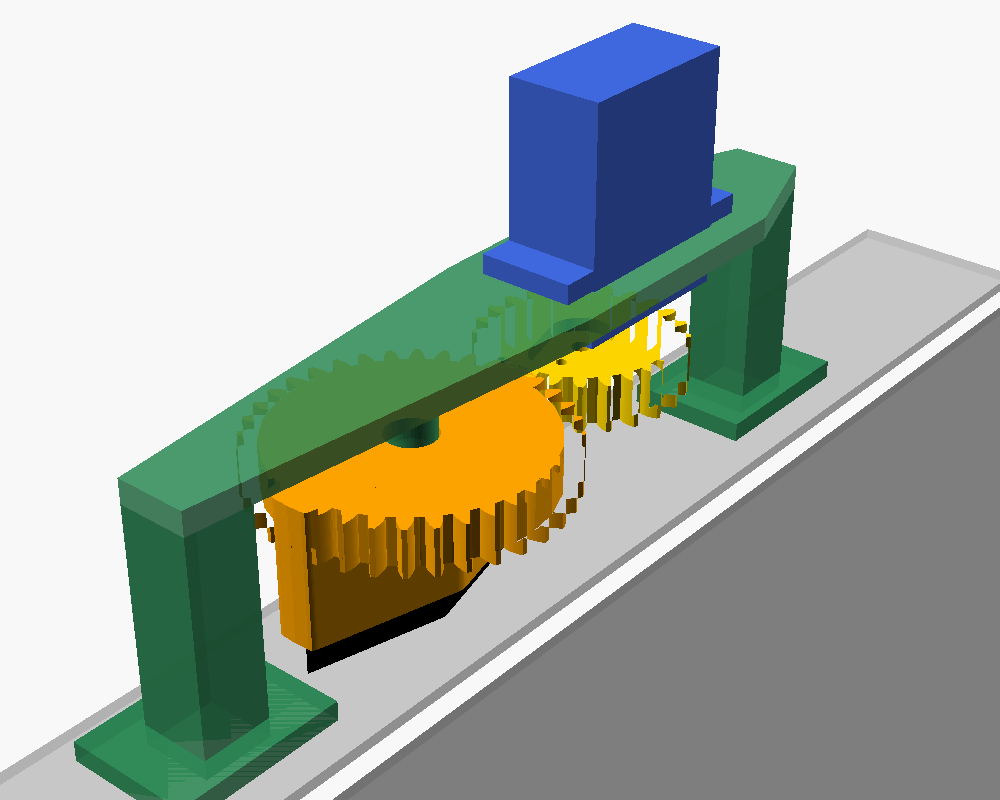
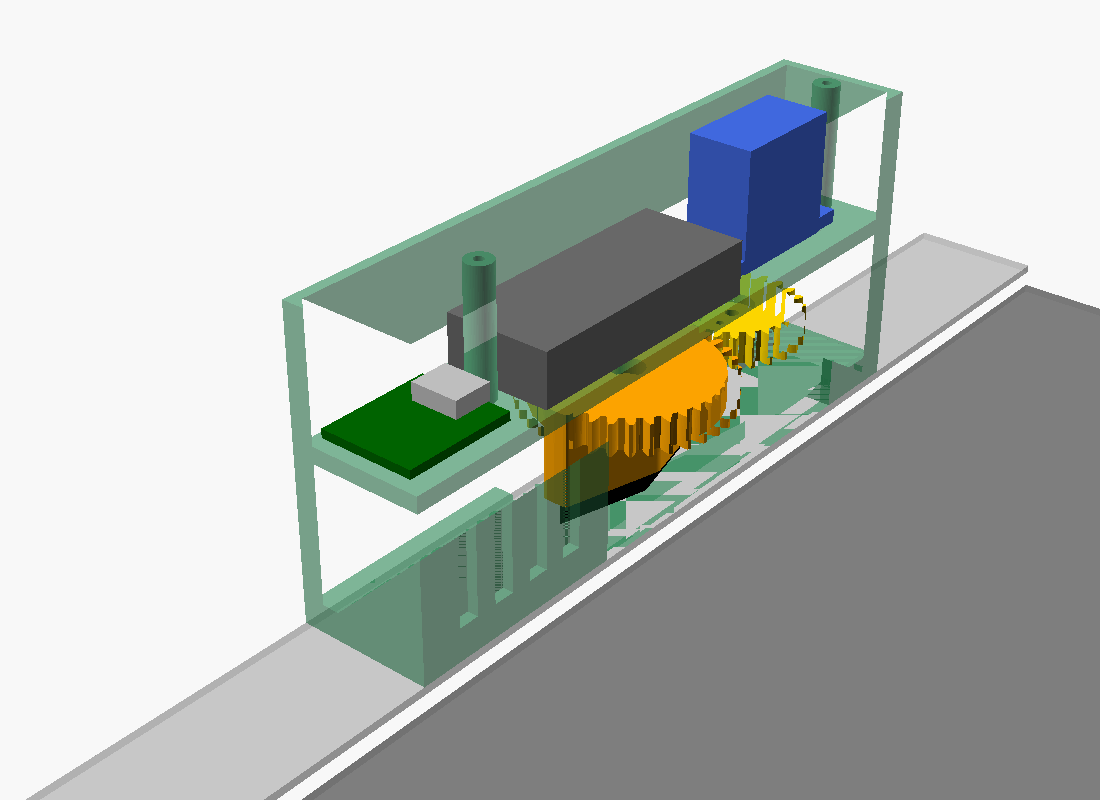
Gemeinsames Gehäuse für Servo, Akku und XIAO
Halter wird zur 25 mm breiten Wanne mit Zwischenboden: Servo über dem Knopf,
darunter LiPo (oder 18650) und XIAO mit Antenne zur Stirnwand. Luftspalt mit
Lüftungsschlitzen zum warmen Rahmen, Deckel mit 2 × M2, Klebekante für VHB.

Claude-Session: https://claude.ai/code/session_01V2ShDL9xXnCPpknpFR2EBe

diff --git a/hardware/README.md b/hardware/README.md
@@ -15,16 +15,49 @@ verdeckt keine Lamellen und passt neben Möbel, die direkt am Gitter stehen.
 
 Variante wählen: `variante = "direkt";` oder `"getriebe"` oben in `lamellen_aktor.scad`.
 
+## Ein Gehäuse für alles
+
+Servo, Akku und Mikrocontroller sitzen in **einem** Gehäuse auf dem Rahmenrand. Es ist
+25 mm breit wie der Rand und steht etwa 55 mm aus der Wand.
+
+```
+  oben   ┌─────────┐  ← Schraubdom (Deckel)
+         │  Servo  │
+  Knopf ─┼─────────┼─ Zwischenboden; darunter dreht die Hülse (seitlich offen)
+         │  LiPo   │  ← Lochrasterplatine (MOSFETs, Teiler) liegt oben auf dem Akku
+         │         │
+         ├ ─ ─ ─ ─ ┤  ← Schraubdom
+         │  XIAO   │  Antenne zur Stirnwand, weg von Akku und Servo
+  unten  └─────────┘
+```
+
+| Akku (`akku = …`) | Gehäuselänge | über / unter der Knopfachse | Laufzeit (Schätzung) |
+|---|---|---|---|
+| `"lipo"` – LiPo 102050, ca. 1000 mAh, 50 × 20 × 10 mm (Standard) | 125 mm | 31 / 94 mm | ca. eine Heizperiode |
+| `"18650"` – Rundzelle mit Lötfahnen und Schutzschaltung, ca. 3000 mAh | 169 mm | 31 / 138 mm | mehrere Jahre |
+
+Bei der Variante „getriebe“ sitzt der Servo höher (61 mm über / 64 mm unter der Achse).
+
+- **Wärme:** Der Akku liegt auf dem Zwischenboden etwa 30 mm über dem Rahmen. Durch den
+  Luftspalt mit Lüftungsschlitzen darunter heizt der warme Rahmen den Akku kaum auf. Trotzdem
+  in der ersten Woche die Temperatur im Gehäuse prüfen: LiPo nicht über 45 °C laden und nicht
+  über 60 °C betreiben.
+- **Funk:** Die Antenne des XIAO zeigt zur Stirnwand. Akku, Servo und Edelstahlrahmen sind so
+  weit wie möglich entfernt.
+- **Laden:** Deckel abschrauben (2 × M2) und USB-C einstecken. Die Ladeschaltung sitzt auf
+  dem XIAO.
+
 ## Teile und Druck (Bambu A1)
 
 | Teil | Material | Ausrichtung |
 |---|---|---|
-| `mitnehmer` – Rautenhülse über dem Knopf (+ Zahnsegment) | PETG, bei > 60 °C am Knopf ASA | wird automatisch richtig gedreht, keine Stützen |
-| `halter` – Platte mit Servoausschnitt, zwei Füße | PETG | Platte aufs Bett, **Baumstützen nur unter den Füßen** |
+| `mitnehmer` – Rautenhülse über dem Knopf (+ Zahnrad) | PETG | wird automatisch richtig gedreht, keine Stützen |
+| `gehaeuse` – Wanne mit Zwischenboden und Klebekante | PETG | offene Seite aufs Bett, keine Stützen (Boden überbrückt 21 mm) |
+| `deckel` | PETG | flach |
 | `ritzel` (nur getriebe) | PETG, 100 % Infill | flach |
 
 ```sh
-for p in mitnehmer halter ritzel; do
+for p in mitnehmer gehaeuse deckel; do
   openscad -D 'variante="direkt"' -D "part=\"$p\"" -o "$p.stl" lamellen_aktor.scad
 done
 ```
@@ -32,7 +65,7 @@ done
 Erste Probe: nur den `mitnehmer` drucken und auf den Knopf stecken, um das Spiel (`fit`)
 zu prüfen.
 
-## Maße, die angepasst werden müssen
+## Maße
 
 | Parameter | Bedeutung |
 |---|---|
@@ -40,19 +73,18 @@ zu prüfen.
 | `knob_h` | wie weit der Knopf aus dem Rahmen ragt (gemessen: 15 mm) |
 | `engage` | wie tief die Hülse über den Knopf greift (≤ `knob_h`) |
 | `knob_angle` | Lage der Rautenlängsachse bei der Montage (90 = senkrecht) |
-| `feet` | Fußpositionen relativ zur Knopfachse, beide auf dem Rahmenrand |
-| `frame_w` | Breite des Rahmenrands (gemessen: 25 mm) |
-| `foot_size` | Klebefläche; Breite (x) ≤ `frame_w` (16 mm bei 25 mm Rand) |
-| `servo_dir` | 90 = Servo über dem Knopf, 270 = darunter |
+| `frame_w` | Breite des Rahmenrands = Gehäusebreite (gemessen: 25 mm) |
+| `akku` | `"lipo"` oder `"18650"` |
 
-OpenSCAD warnt, wenn ein Fuß mit dem Mitnehmer kollidiert.
+OpenSCAD gibt beim Export die Gehäusemaße aus. Es bricht ab, wenn Servo, Akku oder XIAO
+nicht in die Breite passen.
 
 ## Befestigung
 
-Das Gitter ist nur geklemmt, und der Rahmen ist aus Edelstahl. Am einfachsten werden die
-Füße mit **3M VHB** aufgeklebt (vorher mit Isopropanol entfetten, 24 h aushärten lassen).
-Das hält auf Edelstahl sehr gut und lässt sich wieder ablösen. Gitter und Aktor bleiben eine
-Einheit und lassen sich zum Reinigen zusammen herausziehen.
+Das Gitter ist nur geklemmt, und der Rahmen ist aus Edelstahl. Das Gehäuse wird mit seiner
+Klebekante per **3M VHB** aufgeklebt (vorher mit Isopropanol entfetten, 24 h aushärten
+lassen). Gitter und Aktor bleiben eine Einheit und lassen sich zum Reinigen zusammen
+herausziehen.
 
 ## Montage
 
@@ -62,16 +94,17 @@ Einheit und lassen sich zum Reinigen zusammen herausziehen.
 2. Die Hülse mit der Tasche auf das Horn drücken. Die Hornachse muss dabei entlang der
    Rautenlängsachse liegen. Zwei kleine Hornschrauben von innen durch das Dach in die
    Hornlöcher drehen.
-3. Den Servo von vorn durch die Platte stecken und an den Laschen festschrauben.
-4. Den Aktor mit der Hülse über den Knopf setzen und die Füße aufkleben.
+3. Den Servo von oben in den Zwischenboden stecken und an den Laschen festschrauben.
+4. Akku und XIAO mit Schaumklebeband einkleben, verdrahten und den Deckel aufschrauben.
+5. Das Gehäuse mit der Hülse über den Knopf setzen und aufkleben.
 
 **Getriebe:**
 1. Ein 270°-Microservo im MG90S-Format verwenden (gleiche Befestigungsmaße). Horn auf 9 mm
-   ab Wellenmitte kürzen, in die Tasche des Ritzels legen und mit zwei kleinen
-   Schrauben fixieren. Das Ritzel mit der Mittelschraube (von unten durch die Senkung) auf die
-   Welle schrauben.
-2. Servo in die Platte schrauben. Den Mitnehmer auf den Knopf setzen, die Platte aufsetzen
-   (der Zapfen greift in die Bohrung) und die Füße aufkleben.
+   ab Wellenmitte kürzen, in die Tasche des Ritzels legen und mit zwei kleinen Schrauben
+   fixieren. Das Ritzel mit der Mittelschraube (von unten durch die Senkung) auf die Welle
+   schrauben.
+2. Den Servo einsetzen, den Mitnehmer auf den Knopf setzen und das Gehäuse aufsetzen (der
+   Zapfen greift in die Bohrung). Weiter wie bei „direkt“.
 
 ## Elektronik je Knoten
 
@@ -91,5 +124,4 @@ Einheit und lassen sich zum Reinigen zusammen herausziehen.
   in Tagen leeren.
 - 470 µF Elko direkt am Servo gegen Spannungseinbrüche beim Anlaufen.
 - Laden über den USB-C-Anschluss des XIAO (Ladeschaltung auf dem Board).
-- Ein Gehäuse für Akku und Elektronik folgt. Es soll ebenfalls auf dem Rahmenrand sitzen,
-  unterhalb des Aktors.
+- Die Bauteile sitzen auf einem Stück Lochraster (ca. 20 × 30 mm), das oben auf dem LiPo liegt.

diff --git a/docs/KONZEPT.md b/docs/KONZEPT.md
@@ -40,7 +40,8 @@ Weil jetzt alle 7 Auslässe zugehen können, muss das an drei Stellen abgesicher
 > Edelstahlgitter mit einem kleinen Drehknopf auf dem linken Rahmenrand, direkt daneben steht
 > teils ein Möbel. Der Aktor baut deshalb nur entlang des Rahmenrands: 180°-Servo (MG90S)
 > koaxial vor dem Knopf (Variante „direkt“) oder 270°-Servo mit 1:1,5-Zahnrädern (Variante
-> „getriebe“, z. B. für das große Wohnzimmergitter). Die Füße werden mit VHB auf den Rahmen geklebt.
+> „getriebe“, z. B. für das große Wohnzimmergitter). Servo, Akku (LiPo 1000 mAh oder 18650) und XIAO sitzen
+> zusammen in einem 25 mm breiten Gehäuse, das mit VHB auf den Rahmen geklebt wird.
 
 ### Kopplung an die Flügelmutter
 
